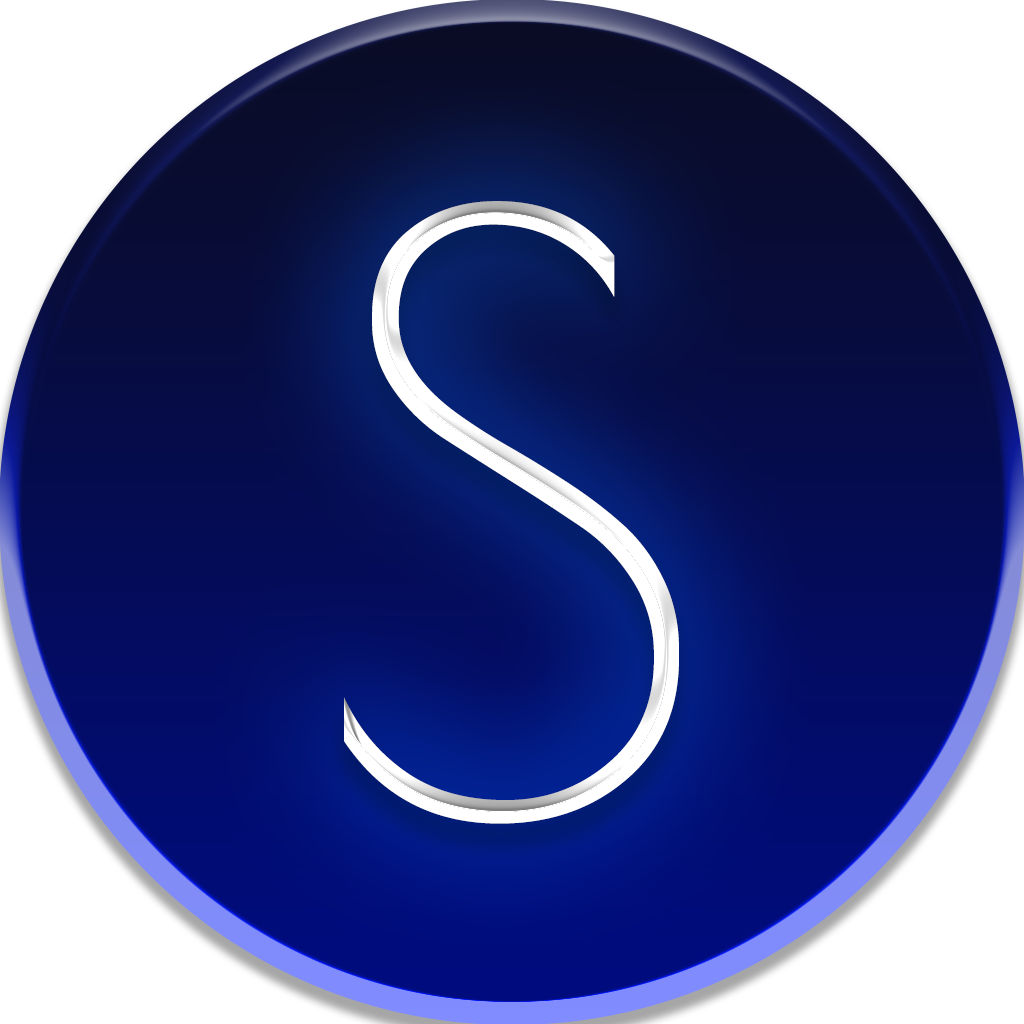
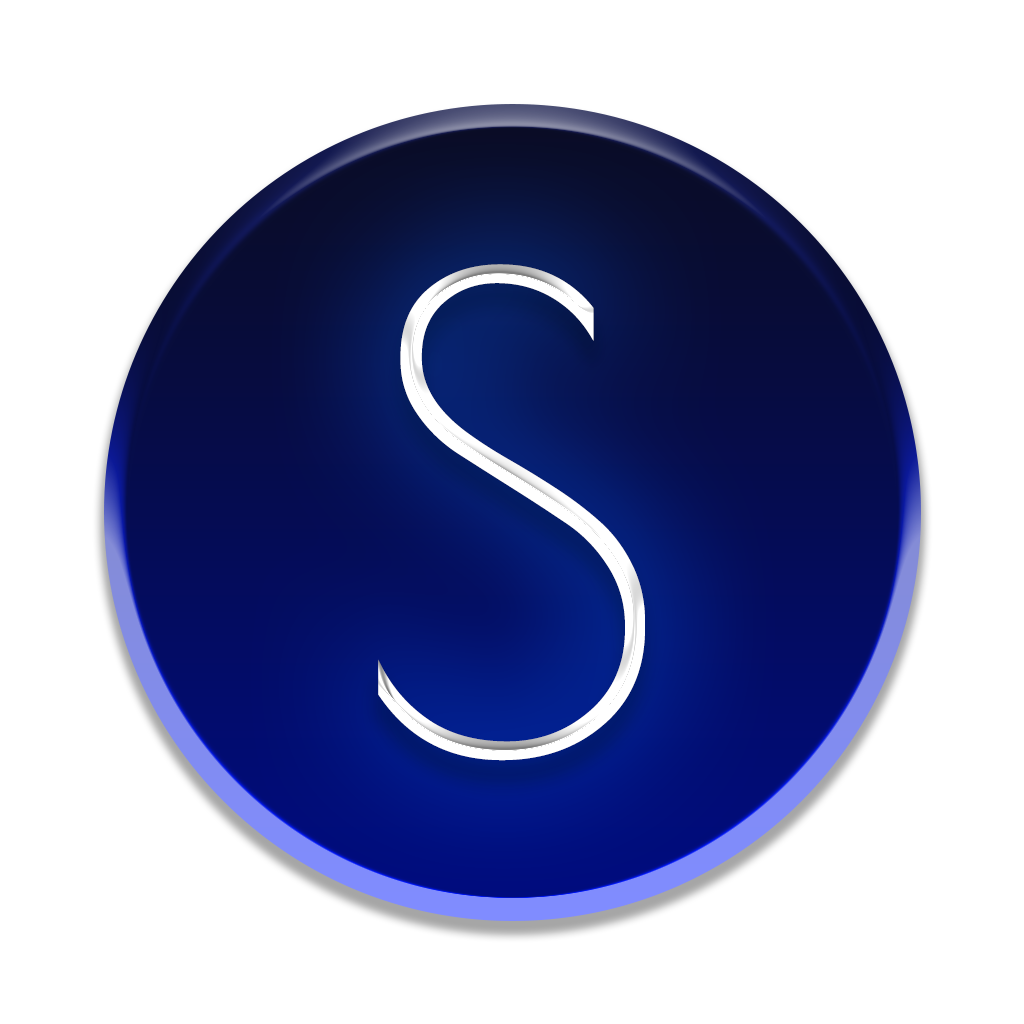
splash screen

diff --git a/src/splash.html b/src/splash.html
@@ -1,0 +1,63 @@
+<!DOCTYPE html>
+<html>
+    <head>
+        <meta charset="UTF-8" />
+        <title>Loading...</title>
+        <style>
+            @font-face {
+                font-family: 'Poiret';
+                src: url('../src/assets/webfonts/PoiretOne-Regular.ttf');
+            }
+
+            body {
+                background-color: #050917;
+            }
+
+            .logo {
+                height: 500px;
+                width: 500px;
+
+                margin: auto;
+                position: absolute;
+                top: 0;
+                left: 0;
+                bottom: 0;
+                right: 0;
+
+                transition: all 0.5s ease-out;
+                animation: glowUp 2s cubic-bezier(0.075, 0.82, 0.165, 1) infinite;
+            }
+
+            @keyframes glowUp {
+                0% {
+                    transform: scale(0.8);
+                    filter: brightness(1);
+                }
+                50% {
+                    transform: scale(0.9);
+                    filter: brightness(1.5);
+                }
+                100% {
+                    transform: scale(0.8);
+                    filter: brightness(1);
+                }
+            }
+
+            .loading-text {
+                color: #fff;
+                font-size: 50px;
+                font-family: 'Poiret', Tahoma, Geneva, Verdana, sans-serif;
+                position: absolute;
+                left: 0;
+                bottom: 10%;
+                right: 0;
+                margin: auto;
+                text-align: center;
+            }
+        </style>
+    </head>
+    <body>
+        <img class="logo" src="../src/assets/img/icon.png" />
+        <div class="loading-text">Loading...</div>
+    </body>
+</html>

diff --git a/src/index.ts b/src/index.ts
@@ -16,24 +16,46 @@ Menu.setApplicationMenu(null);
 
 const createWindow = (): void => {
     // Create the browser window.
+    const loading = new BrowserWindow({
+        width: 800,
+        height: 800,
+        show: false,
+        frame: false,
+        resizable: false,
+    });
+
     const mainWindow = new BrowserWindow({
         height: 800,
         width: 1300,
         minWidth: 1200,
         icon: '/src/assets/img/icon',
+        show: false,
         webPreferences: {
             webSecurity: false,
             devTools: false,
         },
     });
 
+    loading.once('show', () => {
+        mainWindow.webContents.once('dom-ready', () => {
+            setTimeout(() => {
+                mainWindow.show();
+                loading.hide();
+                loading.close();
+            }, 1000);
+        });
+        // long loading html
+        mainWindow.loadURL(MAIN_WINDOW_WEBPACK_ENTRY);
+    });
+
+    loading.loadFile('./src/splash.html');
+    loading.show();
     // and load the index.html of the app.
-    mainWindow.loadURL(MAIN_WINDOW_WEBPACK_ENTRY);
 
     globalShortcut.register('Control+Shift+I', () => {
-        // When the user presses Ctrl + Shift + I, this function will get called
-        // You can modify this function to do other things, but if you just want
-        // to disable the shortcut, you can just return false
+        //     // When the user presses Ctrl + Shift + I, this function will get called
+        //     // You can modify this function to do other things, but if you just want
+        //     // to disable the shortcut, you can just return false
         return false;
     });
 };
